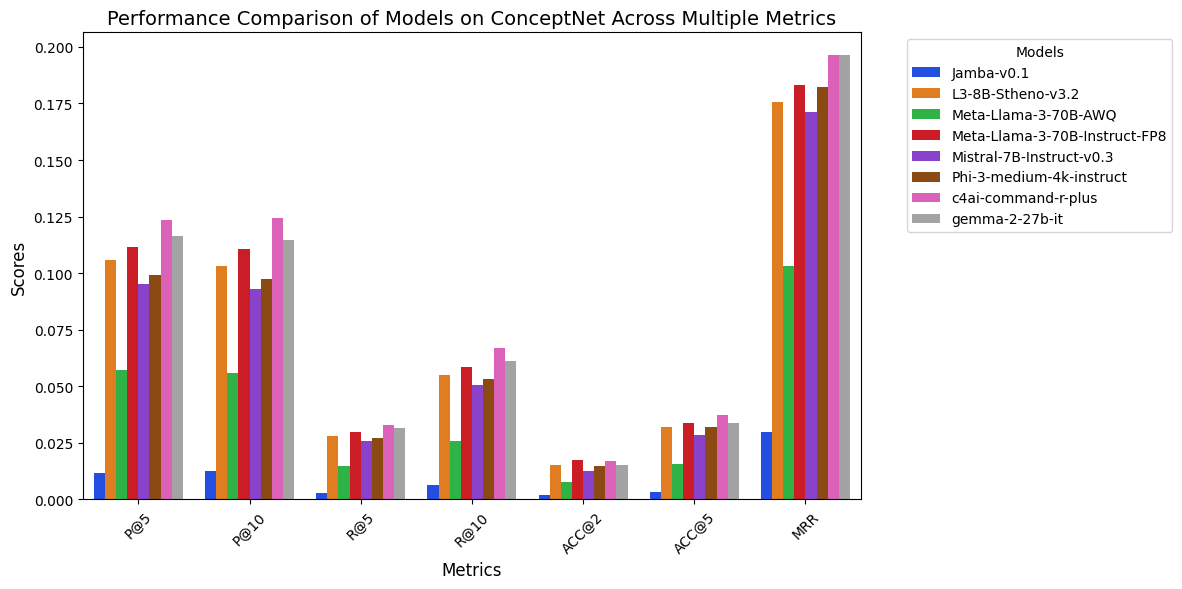
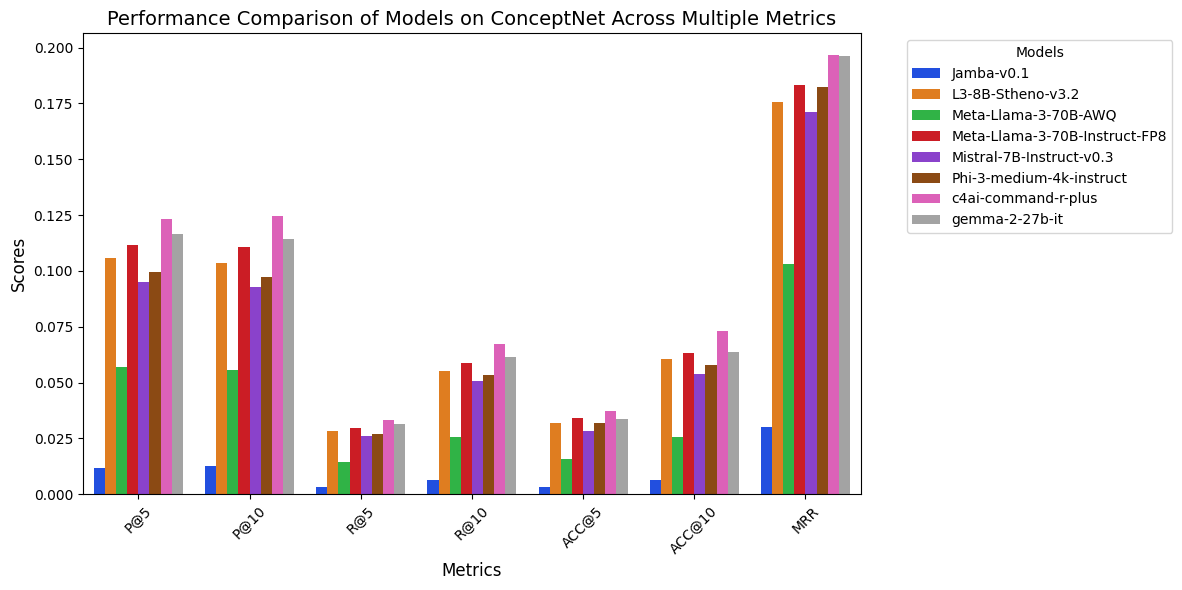
feat: updating graphs with ACC@10

diff --git a/visualizations/create_graphs.py b/visualizations/create_graphs.py
@@ -30,7 +30,7 @@ data_filtered.loc[(data_filtered['Model'] == 'Jamba-v0.1') & (data_filtered['R@1
 aggregated_filtered_data = data_filtered.groupby(['KB', 'Model']).mean(numeric_only=True).reset_index()
 
 # Defining metrics to include in the combined plot
-selected_metrics = ['P@5', 'P@10', 'R@5', 'R@10', 'ACC@2', 'ACC@5', 'MRR']
+selected_metrics = ['P@5', 'P@10', 'R@5', 'R@10', 'ACC@5', 'ACC@10', 'MRR']
 
 # Function to create improved bar plots, save them, and display the plots
 def plot_improved_kb_performance_with_title_and_colors(kb, aggregated_data, metrics):
